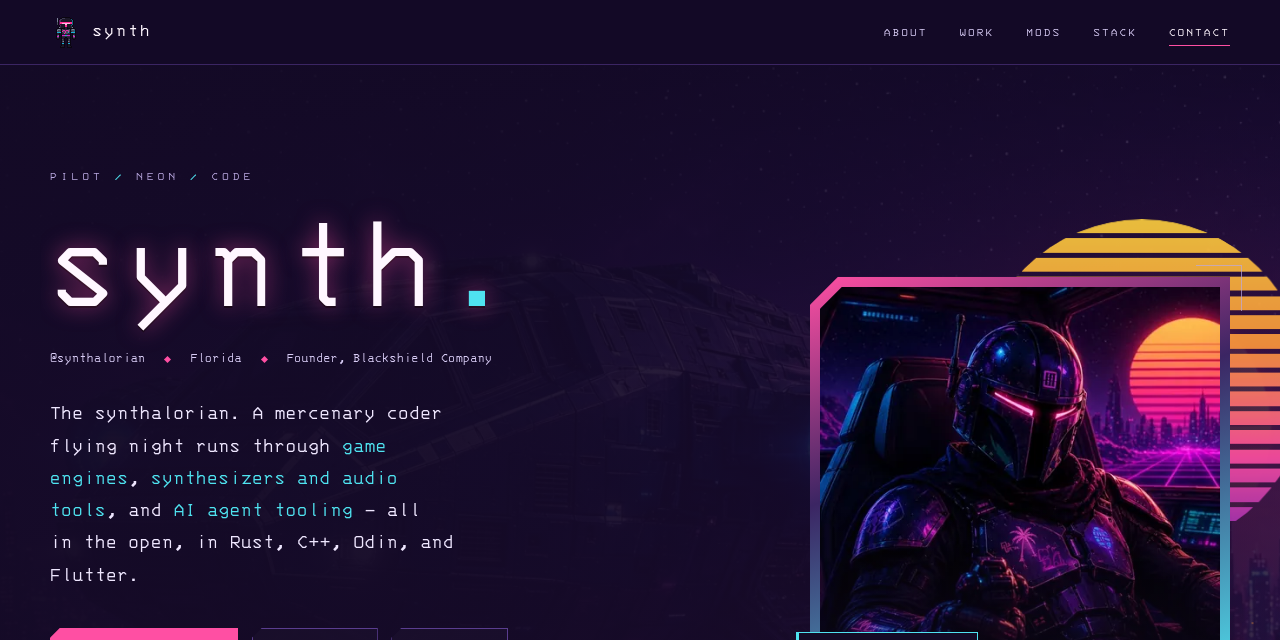
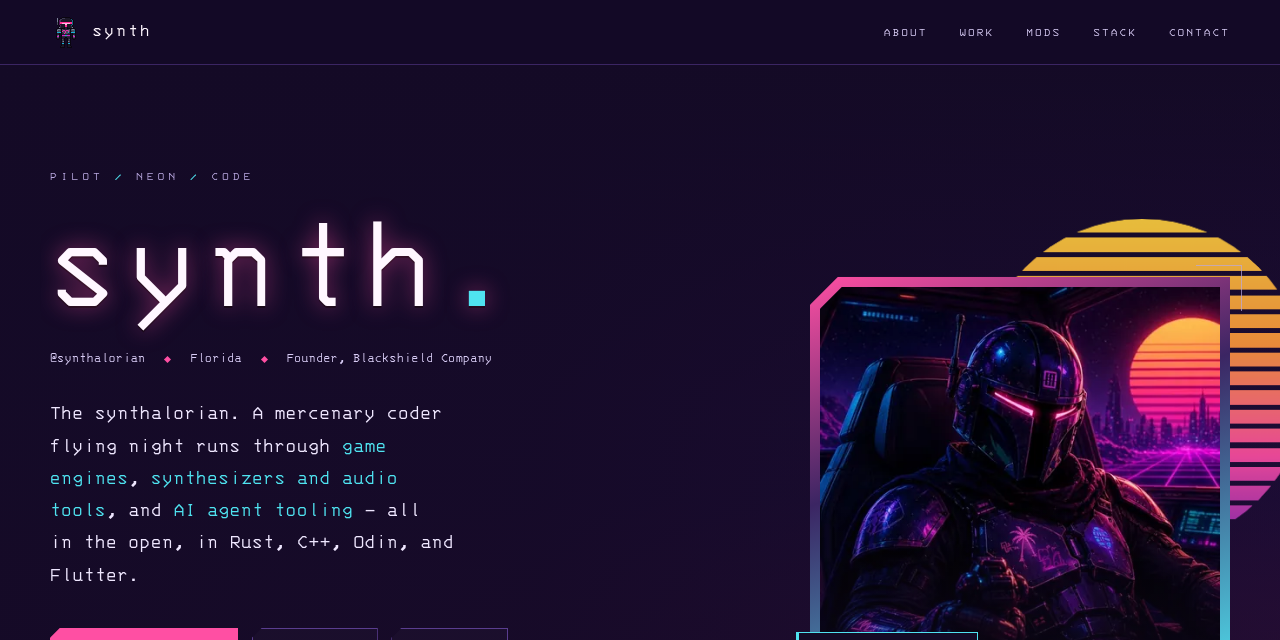
Drop the gunship cover and the art credit
- Hero sky is the deep-purple gradient and scrim with the striped sunset
  and scrolling grid; the gunship cover and its four image files are gone.
- Remove the art credit line from the footer and 404, and its CSS rule.
- README preview re-shot without the cover; stylesheet cache-bust bumped.

diff --git a/index.html b/index.html
@@ -30,7 +30,7 @@
   <!-- Sets the "js" class before first paint so reveal animations never flash. CSP hash in _headers must match this exact script. -->
   <script>(function(d){var r=d.documentElement;r.classList.remove("no-js");if("IntersectionObserver"in window&&window.matchMedia&&!window.matchMedia("(prefers-reduced-motion: reduce)").matches){r.classList.add("js");setTimeout(function(){if(!window.__synthReveal)r.classList.remove("js")},3000)}})(document);</script>
   <link rel="preload" href="/assets/fonts/3270-nerd-font.woff2" as="font" type="font/woff2" crossorigin>
-  <link rel="stylesheet" href="/assets/css/style.css?v=afe1f4b">
+  <link rel="stylesheet" href="/assets/css/style.css?v=sw84c">
 
   <script type="application/ld+json">
   {
@@ -99,11 +99,6 @@
     <!-- ============================== HERO ============================== -->
     <section class="hero" id="top" aria-labelledby="hero-title">
       <div class="hero-sky" aria-hidden="true">
-        <picture>
-          <source media="(max-width: 860px)" srcset="/assets/img/cover-gunship-768.webp" type="image/webp">
-          <source srcset="/assets/img/cover-gunship-1280.webp" type="image/webp">
-          <img src="/assets/img/cover-gunship-1280.jpg" width="1280" height="720" alt="" decoding="async">
-        </picture>
         <span class="hero-grid-floor"></span>
       </div>
       <div class="wrap hero-grid">
@@ -930,7 +925,7 @@
 
   <footer class="site-footer">
     <div class="wrap footer-inner">
-      <div><p><img class="footer-sprite" src="/assets/img/sprite/synthalorian-32.png" width="32" height="32" alt="" loading="lazy" decoding="async"> © <span id="year">2026</span> synth, the synthalorian. Ride the neon.</p><p class="art-credit">AI-assisted art: avatar, gunship cover and pixel sprite.</p></div>
+      <div><p><img class="footer-sprite" src="/assets/img/sprite/synthalorian-32.png" width="32" height="32" alt="" loading="lazy" decoding="async"> © <span id="year">2026</span> synth, the synthalorian. Ride the neon.</p></div>
       <ul class="footer-links">
         <li><a href="https://github.com/synthalorian">GitHub</a></li>
         <li><a href="https://github.com/Blackshield-Company">Blackshield Company</a></li>

diff --git a/assets/css/style.css b/assets/css/style.css
@@ -1493,7 +1493,7 @@ a:hover { text-decoration-color: var(--cyan); }
 /* Header brand: the pixel synthalorian */
 .brand-sprite { width: 32px; height: 32px; image-rendering: pixelated; flex: none; }
 
-/* ---------- Hero: gunship cover, sunset, grid ---------- */
+/* ---------- Hero: purple sky, sunset, grid ---------- */
 .hero { isolation: isolate; }
 .hero-sky {
   position: absolute;
@@ -1503,15 +1503,6 @@ a:hover { text-decoration-color: var(--cyan); }
   pointer-events: none;
   background: linear-gradient(180deg, #140a26 0%, #2a0f4a 52%, #5a1659 74%, #140a26 100%);
 }
-.hero-sky picture, .hero-sky img {
-  position: absolute;
-  inset: 0;
-  width: 100%;
-  height: 100%;
-  object-fit: cover;
-  object-position: 60% 40%;
-}
-.hero-sky img { opacity: .5; }
 .hero-sky::before {
   /* readability scrim: text always sits on near-solid deep purple */
   content: "";
@@ -1592,8 +1583,6 @@ a:hover { text-decoration-color: var(--cyan); }
 /* Blackshield Company studio link keeps its knight */
 .contact-links .cl-knight { width: 24px; height: 21px; flex: none; image-rendering: pixelated; }
 
-/* Footer art credit */
-.art-credit { margin: .4rem 0 0; font-size: .8rem; color: var(--bone-dim); }
 .footer-sprite { width: 32px; height: 32px; vertical-align: middle; image-rendering: pixelated; margin-right: .35rem; }
 
 @media (max-width: 860px) {

diff --git a/404.html b/404.html
@@ -8,7 +8,7 @@
   <meta name="theme-color" content="#140a26">
   <link rel="icon" href="/favicon.svg?v=synthalorian" type="image/svg+xml">
   <link rel="preload" href="/assets/fonts/3270-nerd-font.woff2" as="font" type="font/woff2" crossorigin>
-  <link rel="stylesheet" href="/assets/css/style.css?v=afe1f4b">
+  <link rel="stylesheet" href="/assets/css/style.css?v=sw84c">
 </head>
 <body>
   <main id="main" class="section">
@@ -18,7 +18,6 @@
       <h1 style="font-size:clamp(2.2rem,6vw,4rem);margin:0">Lost signal, pilot.</h1>
       <p style="max-width:46ch;margin:0;color:var(--bone-dim)">This sector of the grid is empty. The page was never built, or it has moved on. Plot a course home.</p>
       <a class="btn btn-primary" href="/">Back to the portfolio</a>
-      <p class="art-credit">AI-assisted art: pixel sprite.</p>
     </div>
   </main>
   <button type="button" class="corner-sprite" data-sprite-base="/assets/img/sprite/" aria-label="The pixel synthalorian. Press to make him walk."><picture><source media="(prefers-reduced-motion: reduce)" srcset="/assets/img/sprite/synthalorian-64.png"><img src="/assets/img/sprite/synthalorian-idle-64.gif" width="64" height="64" alt="" decoding="async"></picture></button>

diff --git a/README.md b/README.md
@@ -16,7 +16,7 @@ assets/css/style.css    all styles (palette variables at the top)
 assets/js/main.js       mobile nav, section highlight, scroll reveal, "More work" expand/collapse
 assets/js/sprite.js     the corner synthalorian (idle, walks on hover/focus/click)
 assets/fonts/           self-hosted 3270 Nerd Font (Latin subset, see 3270-NERD-FONT-LICENSE.txt)
-assets/img/             cockpit avatar (460/920, WebP + JPEG), gunship cover (768/1280), Open Graph card
+assets/img/             cockpit avatar (460/920, WebP + JPEG), Open Graph card
 assets/img/sprite/      pixel synthalorian: idle/walk GIFs + static PNGs (reduced-motion fallback)
 assets/img/knight/      Knight A, the Blackshield Company mascot (shown only on the studio link)
 assets/img/mods/        Skyrim mod cover thumbnails (640×360, WebP + JPEG fallback)
@@ -59,7 +59,7 @@ Data came from public GitHub metadata and READMEs as of October 2026. Star count
 All motion is CSS (transform, opacity, clip-path only) with small helpers in `assets/js/main.js`:
 
 - **Hero intro** (~1.1s, once per load): a neon slash cuts the name in, a glint passes over it, and the rest of the hero follows.
-- **Hero sky**: the gunship cover under a deep-purple scrim, a striped sunset behind the avatar, and a perspective grid rolling toward you (transform only).
+- **Hero sky**: a deep-purple gradient and scrim, a striped sunset behind the avatar, and a perspective grid rolling toward you (transform only).
 - **Corner sprite**: the pixel synthalorian idles in the bottom-left corner and walks on hover, focus, or click. Under reduced motion the `<picture>` serves the static PNG.
 - **Section headings**: a diagonal cut with a spark at the edge, then the red rule draws in.
 - **Project cards**: lock in with a slight rotation and settle. On hover or keyboard focus they lift, glow, and get one steel shine pass.
@@ -90,4 +90,3 @@ in `index.html` (canonical, Open Graph, JSON-LD), `robots.txt`, and `sitemap.xml
 - **3270 Nerd Font** from the [Nerd Fonts](https://github.com/ryanoasis/nerd-fonts) v3.5.1 release, subset to Latin and punctuation and
   converted to WOFF2 (`3270-nerd-font.woff2`, ~12 KB). It loads with `font-display: optional` plus a preload, so text never reflows when
   it arrives. Its license ships next to it in `assets/fonts/3270-NERD-FONT-LICENSE.txt`.
-- The avatar, gunship cover and pixel sprite are AI-assisted art, credited in the footer.
